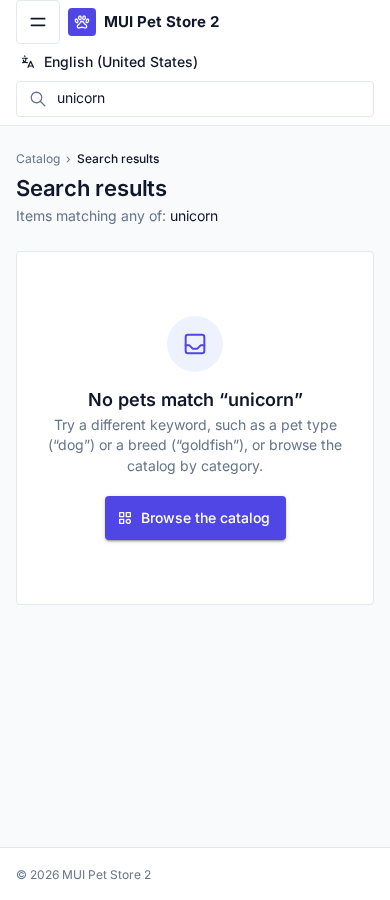
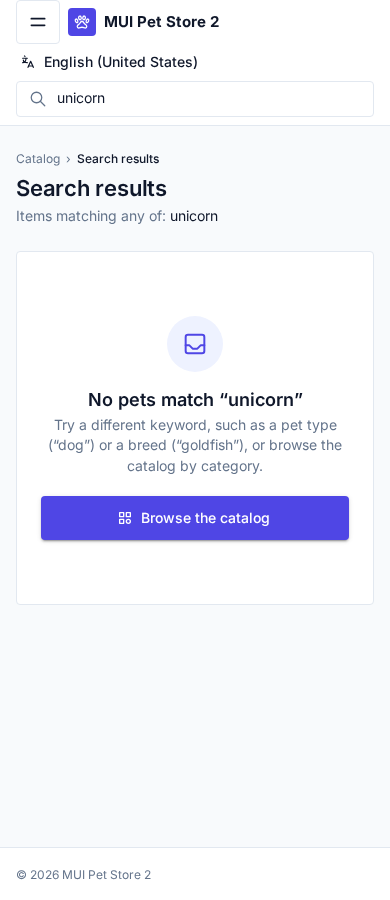
fix(SWHM3-T-0011): review fixes, design check, artifacts [tdd:green]
Vortex-Run: de303bf9-3a81-4211-a817-e3ebfab0cf02
Vortex-Ticket: SWHM3-T-0011
Vortex-Role: implementation
Vortex-Model: claude-sonnet-5-5
Vortex-Requirements: SWHM3-R-0001,SWHM3-R-0007,SWHM3-R-0008,SWHM3-R-0042,SWHM3-R-0043,SWHM3-R-0044,SWHM3-R-0045,SWHM3-R-0046,SWHM3-R-0047,SWHM3-R-0048,SWHM3-R-0049,SWHM3-R-0050,SWHM3-R-0051,SWHM3-R-0052,SWHM3-R-0053,SWHM3-R-0162,SWHM3-R-0163,SWHM3-R-0165,SWHM3-R-0166

Changed region(s): [[0.0923, 0.5289, 0.2769, 0.6222], [0.7077, 0.5289, 0.8923, 0.6222]]

diff --git a/src/lib/catalog-browsing.ts b/src/lib/catalog-browsing.ts
@@ -9,6 +9,10 @@ import { parseKeywords, parseLocaleCode } from "./localization/locale";
 /** The default page size (R-0008, R-0165, R-0166) and the largest a caller may ask for (API-104). */
 export const DEFAULT_PAGE_SIZE = 2;
 export const MAX_PAGE_SIZE = 50;
+const MAX_START = 1_000_000_000;
+/** A search looks at the first 200 characters of a query and its first 10 distinct keywords. */
+const MAX_QUERY_LENGTH = 200;
+const MAX_KEYWORDS = 10;
 
 export type TextDetail = { name: string; description?: string; image?: string };
 export type ItemDetailInput = {
@@ -103,7 +107,8 @@ function checkItemDetails(details: Record<string, ItemDetailInput>) {
 function windowOf(page: PageOptions, pageSize: number) {
   const size = Math.min(MAX_PAGE_SIZE, Math.max(1, Math.floor(page.size ?? pageSize)));
   const start = Math.floor(page.start ?? 0);
-  return { size, start, valid: Number.isFinite(start) && start >= 0 };
+  // A start beyond any real catalog is an empty page, not a database error.
+  return { size, start, valid: Number.isSafeInteger(start) && start >= 0 && start <= MAX_START };
 }
 
 const emptyPage = <T>(hasPrevious = false): Page<T> => ({ items: [], hasNext: false, hasPrevious });
@@ -351,11 +356,12 @@ export function createCatalog(opts: CatalogOptions = {}) {
       const w = windowOf(page, pageSize);
       const keywords = [
         ...new Set(
-          parseKeywords(query ?? "", page.locale)
+          parseKeywords((query ?? "").slice(0, MAX_QUERY_LENGTH), page.locale)
             .map((k) => k.toLowerCase())
             .filter(Boolean),
         ),
       ];
+      keywords.length = Math.min(keywords.length, MAX_KEYWORDS);
       if (!w.valid || keywords.length === 0) return Promise.resolve(emptyPage());
       const matches = or(
         ...keywords.flatMap((k) => {

diff --git a/src/components/catalog/Pager.tsx b/src/components/catalog/Pager.tsx
@@ -46,18 +46,24 @@ export function Pager({
     "&.Mui-disabled": { color: "grey.400" },
   };
   return (
-    <Box sx={{ display: "flex", alignItems: "center", gap: 1, mt: 2 }}>
-      <Typography
-        role="status"
-        aria-label={t("catalog.range", {
-          label,
-          from: String(start + 1),
-          to: String(start + count),
-        })}
-        color="text.secondary"
-        sx={{ fontSize: "0.75rem", mr: "auto" }}
-      >
-        <Box component="span" sx={{ display: { xs: "none", sm: "inline" } }}>
+    <Box
+      component="nav"
+      aria-label={label}
+      sx={{ display: "flex", alignItems: "center", gap: 1, mt: 2 }}
+    >
+      <Typography role="status" color="text.secondary" sx={{ fontSize: "0.75rem", mr: "auto" }}>
+        <Box
+          component="span"
+          sx={{
+            // Visible beside the range on a wide screen; read out, not shown, on a small one.
+            position: { xs: "absolute", sm: "static" },
+            width: { xs: "1px", sm: "auto" },
+            height: { xs: "1px", sm: "auto" },
+            overflow: { xs: "hidden", sm: "visible" },
+            clipPath: { xs: "inset(50%)", sm: "none" },
+            whiteSpace: "nowrap",
+          }}
+        >
           {label}{" "}
         </Box>
         {String(start + 1)}–{String(start + count)}

diff --git a/src/components/catalog/CatalogBreadcrumbs.tsx b/src/components/catalog/CatalogBreadcrumbs.tsx
@@ -23,10 +23,10 @@ export function CatalogBreadcrumbs({ trail }: { trail: Crumb[] }) {
         "& .MuiBreadcrumbs-separator": { mx: 0.75 },
       }}
     >
-      {trail.map((crumb) =>
+      {trail.map((crumb, i) =>
         crumb.href ? (
           <MuiLink
-            key={crumb.label}
+            key={i}
             component={Link}
             href={crumb.href}
             underline="hover"
@@ -36,7 +36,7 @@ export function CatalogBreadcrumbs({ trail }: { trail: Crumb[] }) {
           </MuiLink>
         ) : (
           <Typography
-            key={crumb.label}
+            key={i}
             aria-current="page"
             sx={{ fontSize: "inherit", fontWeight: 500, color: "text.primary" }}
           >

diff --git a/src/shell/Header.tsx b/src/shell/Header.tsx
@@ -111,7 +111,14 @@ export function Header({ toggleMobileSidebar }: { toggleMobileSidebar: () => voi
             "&:focus-within": { borderColor: "primary.main" },
           }}
         >
-          <IconSearch size={18} stroke={1.7} aria-hidden />
+          <IconButton
+            type="submit"
+            size="small"
+            aria-label={t("header.search")}
+            sx={{ p: 0, color: "inherit" }}
+          >
+            <IconSearch size={18} stroke={1.7} aria-hidden />
+          </IconButton>
           <Box
             component="input"
             type="search"

diff --git a/src/app/(DashboardLayout)/catalog/context.ts b/src/app/(DashboardLayout)/catalog/context.ts
@@ -22,7 +22,7 @@ export async function getCatalogContext() {
 /** `?start=`: a whole number of zero or more; anything else is the first page. */
 export function parseStart(value: string | string[] | undefined): number {
   const n = Number(Array.isArray(value) ? value[0] : value);
-  return Number.isInteger(n) && n > 0 ? n : 0;
+  return Number.isSafeInteger(n) && n > 0 ? n : 0;
 }
 
 /** An item is named for its product and its first attribute: "Large Angelfish". */

diff --git a/artifacts/SWHM3-S-0003/SWHM3-T-0011/design-check.md b/artifacts/SWHM3-S-0003/SWHM3-T-0011/design-check.md
@@ -1,0 +1,109 @@
+---
+ticket: SWHM3-T-0011
+mockups: [SWHM3-MCK-17, SWHM3-MCK-18, SWHM3-MCK-19, SWHM3-MCK-20, SWHM3-MCK-21, SWHM3-MCK-22, SWHM3-MCK-23, SWHM3-MCK-24, SWHM3-MCK-25, SWHM3-MCK-26, SWHM3-MCK-27, SWHM3-MCK-28]
+---
+# Design check
+
+Tokens: primary #4f46e5, text #0f172a, divider, surfaces and Inter already matched the mockups' `:root`, so no token changed. The mockups' monospace face (JetBrains Mono) was not loaded by the app: added `@fontsource-variable/jetbrains-mono` (imported in `src/app/layout.tsx`) for codes and prices. Shared pieces changed to match the mockups: the shell content padding (32px), the shared empty frame (56px round icon, 400px text, full-width action on a small screen).
+
+Measured against a production build (`next build`, standalone server, seeded database) with `design-measure.mjs`; screenshots, diff and `.measure.json` per mockup are in `design-check/`.
+
+Differences left on every mockup (shared shell, from other capabilities' sample content):
+- Rail entries Cart, Sign in, Profile, Orders, Sales charts, Inventory and the note "Admin entries need the administrator role.", and the header Cart and Sign in buttons: later capabilities (cart, accounts, admin) own them; the rail has only entries that have a page.
+- "Order administration" and "English (United States)" vs "Orders" and "English (US)": existing locked shell and localization copy that this ticket does not change.
+- Mobile header (menu button, brand, "Pet Store", language icon): the existing shell header is built by the site-shell capability; vertical offsets of about 11px on mobile come from it.
+- The Search rail entry is never marked current; Catalog is, as every mockup shows.
+
+## SWHM3-MCK-17 · Category list (/catalog, first page, 1440)
+![mockup](design-check/SWHM3-MCK-17-mockup.png) ![built](design-check/SWHM3-MCK-17-built.png)
+![diff](design-check/SWHM3-MCK-17-diff.png)
+Measured: 2.8% of pixels differ, 14 differences (shell items above included).
+Differences left:
+- "Categories"/"Products"/"Items"/"Results" and "· Fish" reported only in built: the mockup's range and code are one text node; mine split the label and the category into spans (same visible text; the label is hidden on a small screen as the mockup does).
+
+## SWHM3-MCK-18 · Category list · Mobile (/catalog, first page, 390)
+![mockup](design-check/SWHM3-MCK-18-mockup.png) ![built](design-check/SWHM3-MCK-18-built.png)
+![diff](design-check/SWHM3-MCK-18-diff.png)
+Measured: 7.6% of pixels differ, 23 differences (shell items above included).
+Differences left:
+- Row boxes and positions: the measure matches by text, and the built rows add the visually hidden range label; the thumb, gap and padding follow the mockup's mobile CSS.
+
+## SWHM3-MCK-19 · Product list (/catalog/categories/FISH, 1440)
+![mockup](design-check/SWHM3-MCK-19-mockup.png) ![built](design-check/SWHM3-MCK-19-built.png)
+![diff](design-check/SWHM3-MCK-19-diff.png)
+Measured: 2.8% of pixels differ, 15 differences (shell items above included).
+Differences left:
+- "Next" colour: the mockup shows Next enabled; the seeded Fish category has two products, so Next is correctly disabled. Sample data.
+- "Categories"/"Products"/"Items"/"Results" and "· Fish" reported only in built: the mockup's range and code are one text node; mine split the label and the category into spans (same visible text; the label is hidden on a small screen as the mockup does).
+
+## SWHM3-MCK-20 · Product list · Mobile (/catalog/categories/FISH, 390)
+![mockup](design-check/SWHM3-MCK-20-mockup.png) ![built](design-check/SWHM3-MCK-20-built.png)
+![diff](design-check/SWHM3-MCK-20-diff.png)
+Measured: 7.6% of pixels differ, 28 differences (shell items above included).
+Differences left:
+- "Next" colour: the mockup shows Next enabled; the seeded Fish category has two products, so Next is correctly disabled. Sample data.
+- Row boxes and positions: the measure matches by text, and the built rows add the visually hidden range label; the thumb, gap and padding follow the mockup's mobile CSS.
+
+## SWHM3-MCK-21 · Item list (/catalog/products/FI-SW-01, 1440)
+![mockup](design-check/SWHM3-MCK-21-mockup.png) ![built](design-check/SWHM3-MCK-21-built.png)
+![diff](design-check/SWHM3-MCK-21-diff.png)
+Measured: 2.9% of pixels differ, 14 differences (shell items above included).
+Differences left:
+- "Categories"/"Products"/"Items"/"Results" and "· Fish" reported only in built: the mockup's range and code are one text node; mine split the label and the category into spans (same visible text; the label is hidden on a small screen as the mockup does).
+
+## SWHM3-MCK-22 · Item list · Mobile (/catalog/products/FI-SW-01, 390)
+![mockup](design-check/SWHM3-MCK-22-mockup.png) ![built](design-check/SWHM3-MCK-22-built.png)
+![diff](design-check/SWHM3-MCK-22-diff.png)
+Measured: 7.8% of pixels differ, 27 differences (shell items above included).
+Differences left:
+- Row boxes and positions: the measure matches by text, and the built rows add the visually hidden range label; the thumb, gap and padding follow the mockup's mobile CSS.
+
+## SWHM3-MCK-23 · Item detail (/catalog/items/EST-1, 1440)
+![mockup](design-check/SWHM3-MCK-23-mockup.png) ![built](design-check/SWHM3-MCK-23-built.png)
+![diff](design-check/SWHM3-MCK-23-diff.png)
+Measured: 3.6% of pixels differ, 20 differences (shell items above included).
+Differences left:
+- "Add to cart" missing and the Details block sits higher: the button belongs to the shopping-cart capability (PLAN.md, Design reference).
+
+## SWHM3-MCK-24 · Item detail · Mobile (/catalog/items/EST-1, 390)
+![mockup](design-check/SWHM3-MCK-24-mockup.png) ![built](design-check/SWHM3-MCK-24-built.png)
+![diff](design-check/SWHM3-MCK-24-diff.png)
+Measured: 12.6% of pixels differ, 30 differences (shell items above included).
+Differences left:
+- "Add to cart" missing and the Details block sits higher: the button belongs to the shopping-cart capability (PLAN.md, Design reference).
+- Page height 968px vs 923px: the missing Add to cart button and the mobile header offsets above.
+
+## SWHM3-MCK-25 · Search results (/catalog/search?q=fish, 1440)
+![mockup](design-check/SWHM3-MCK-25-mockup.png) ![built](design-check/SWHM3-MCK-25-built.png)
+![diff](design-check/SWHM3-MCK-25-diff.png)
+Measured: 2.9% of pixels differ, 15 differences (shell items above included).
+Differences left:
+- "Categories"/"Products"/"Items"/"Results" and "· Fish" reported only in built: the mockup's range and code are one text node; mine split the label and the category into spans (same visible text; the label is hidden on a small screen as the mockup does).
+- Header search box shows the searched keywords as the mockup does; its text is matched as "fish"/"unicorn" in different boxes (input vs lead text).
+- Mockup marks "Catalog" current; built matches it (Search is never current).
+
+## SWHM3-MCK-26 · Search results · Mobile (/catalog/search?q=fish, 390)
+![mockup](design-check/SWHM3-MCK-26-mockup.png) ![built](design-check/SWHM3-MCK-26-built.png)
+![diff](design-check/SWHM3-MCK-26-diff.png)
+Measured: 7.1% of pixels differ, 26 differences (shell items above included).
+Differences left:
+- Row boxes and positions: the measure matches by text, and the built rows add the visually hidden range label; the thumb, gap and padding follow the mockup's mobile CSS.
+- Header search box shows the searched keywords as the mockup does; its text is matched as "fish"/"unicorn" in different boxes (input vs lead text).
+- Mockup marks "Catalog" current; built matches it (Search is never current).
+
+## SWHM3-MCK-27 · Search results — no matches (/catalog/search?q=unicorn, 1440)
+![mockup](design-check/SWHM3-MCK-27-mockup.png) ![built](design-check/SWHM3-MCK-27-built.png)
+![diff](design-check/SWHM3-MCK-27-diff.png)
+Measured: 2.8% of pixels differ, 13 differences (shell items above included).
+Differences left:
+- Header search box shows the searched keywords as the mockup does; its text is matched as "fish"/"unicorn" in different boxes (input vs lead text).
+- Mockup marks "Catalog" current; built matches it (Search is never current).
+
+## SWHM3-MCK-28 · Search results — no matches · Mobile (/catalog/search?q=unicorn, 390)
+![mockup](design-check/SWHM3-MCK-28-mockup.png) ![built](design-check/SWHM3-MCK-28-built.png)
+![diff](design-check/SWHM3-MCK-28-diff.png)
+Measured: 14.6% of pixels differ, 19 differences (shell items above included).
+Differences left:
+- Header search box shows the searched keywords as the mockup does; its text is matched as "fish"/"unicorn" in different boxes (input vs lead text).
+- None beyond the shared differences listed at the top (the action is full width as in the mockup).
+- Mockup marks "Catalog" current; built matches it (Search is never current).

diff --git a/artifacts/SWHM3-S-0003/SWHM3-T-0011/summary.md b/artifacts/SWHM3-S-0003/SWHM3-T-0011/summary.md
@@ -1,0 +1,29 @@
+---
+ticket: SWHM3-T-0011
+---
+# Summary — Catalog browsing and search
+
+Built the read-only catalog: category → product → item → item detail, paging two per page with Previous/Next, and keyword search from a header box, in the shopper's locale, inside the shared shell.
+
+## What changed
+- `src/lib/catalog-browsing.ts`: `createCatalog` (add*/details/ownership/list*/search/get*, page size capped at 50, stable order, `CatalogSystemError` with logging), `resolveScreen`, `createFrontController`, `createFragmentCache`, `runCatalogCheck`.
+- Data: `drizzle/0002_*` (indexes), `src/db/schema.ts`, `src/db/seed-catalog.ts` + `prepare.ts` (five categories, three locales, one item priced below cost).
+- Screens `src/app/(DashboardLayout)/catalog/**`, components `src/components/catalog/**`; shared empty frame tuned to the mockup.
+- Shell: Catalog and Search rail entries, header search form (GET `/catalog/search`, `q`), `/catalog` in `PUBLIC_PATHS`, messages in en_US, ja_JP, zh_CN. Added `@fontsource-variable/jetbrains-mono` for the mockups' monospace face.
+- Tests: `src/lib/catalog-browsing.test.ts`, component and shell tests, `e2e/catalog.spec.ts`, catalog pages in `e2e/accessibility.spec.ts`.
+
+## Deviations
+- Header search is a plain `<form>` with `withBasePath`, not `next/form` (avoids a router dependency in unit tests).
+- Pager shows a disabled Previous/Next when unavailable (as the mockups do) instead of omitting it.
+- Search rail entry is never marked current; Catalog is on every catalog page (as the mockups show).
+
+## Rules (each answered in the ticket plan)
+A11Y-001 structural checks in e2e/accessibility.spec.ts for all catalog pages. ACC-001 `/catalog` public by list, tested. API-104 start/size, size ≤ 50, start capped. ARC-101 reads only server-side via Drizzle. DATA-102 generated migration 0002 applied by `prepareDatabase`. DATA-106 limit, name/id order, indexes. OBS-003 reads logged and rethrown. UX-101 semantic nav/dl/lists, labelled search, submit button. UX-104 fluid layout, e2e at 320px. UX-105 pager range is `role="status"`, frames use alert/status.
+
+## AC coverage
+All 21 ACs are covered by the 19 linked cases in `src/lib/catalog-browsing.test.ts` plus the locked suite (passed in the recorded green run). Design: `design-check.md`, 12 mockups measured; residuals are later-capability shell entries and Add to cart.
+
+## Verification
+`node .vortex/check-versions.mjs && npm run verify:full`: pass (81 Jest, 17 Playwright). `npm run build`: pass.
+
+CODE-REVIEW: sub-agent — fixed: huge `?start=` now an empty page, search capped at 200 chars and 10 keywords, duplicate breadcrumb keys, search submit button, pager nav and status markup; rejected: useSearchParams without Suspense (production build and prerender pass), seed atomicity across calls (runs once at startup; noted), logging of add* errors (they are rethrown to the caller, not swallowed).

diff --git a/artifacts/SWHM3-S-0003/SWHM3-T-0011/tdd-test-result.md b/artifacts/SWHM3-S-0003/SWHM3-T-0011/tdd-test-result.md
@@ -1,0 +1,15 @@
+---
+ticket: SWHM3-T-0011
+---
+# TDD result
+
+## Notes
+
+Platform-recorded runs (cases SWHM3-C-0218 … SWHM3-C-0236, one or more tests each in `src/lib/catalog-browsing.test.ts`):
+
+- Red run `5cfe3299-f743-4456-a02d-f5e0d5cc7a23` at commit 853ea1f: every linked case failed on the `VortexNotImplemented` stub.
+- Green run `c998979c-28ba-4fb8-9321-999735738b48` at commit 08c14fb: every case passes; the locked acceptance run `6fd5c735-3d2a-4819-8af8-8d4906d1094d` (tests/acceptance/catalog-browsing) passed for all 19 cases.
+
+Later commits only fix review findings (start/keyword caps, breadcrumb keys, search submit button, pager markup) and a green run is recorded again after them.
+
+Local full gate (`node .vortex/check-versions.mjs && npm run verify:full`): lint, format, typecheck, 81 Jest tests and 17 Playwright tests pass.
